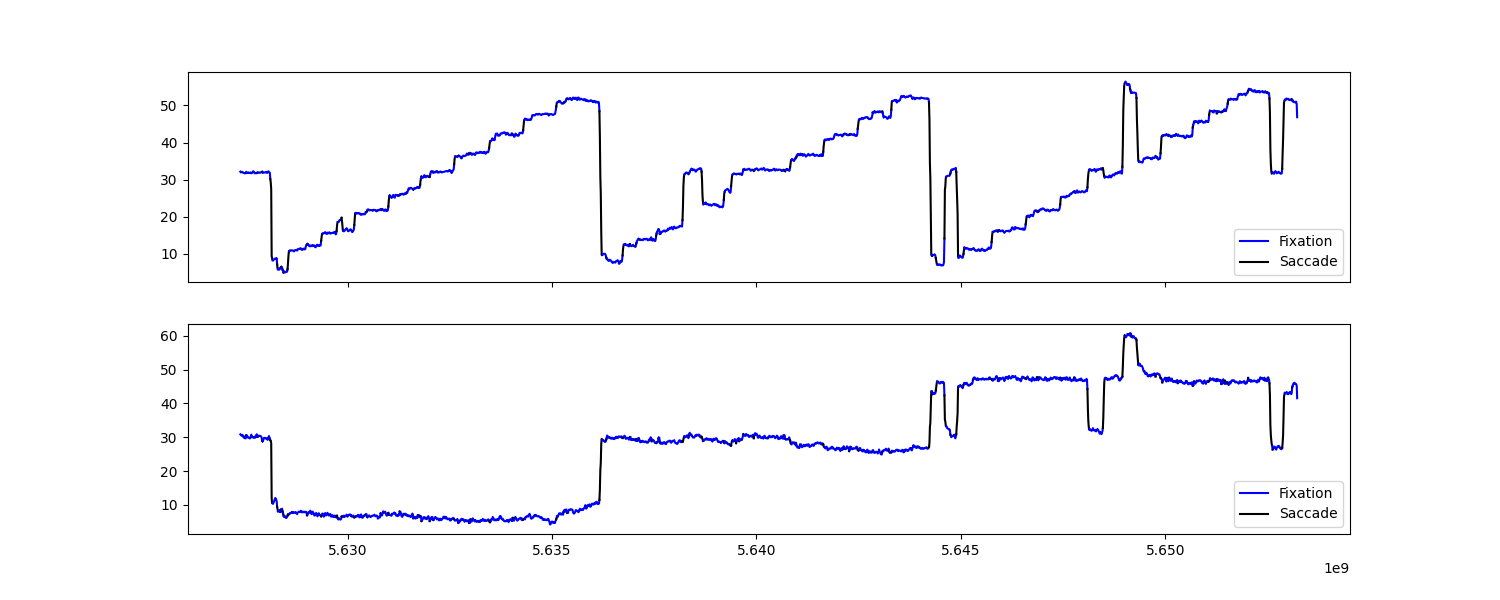
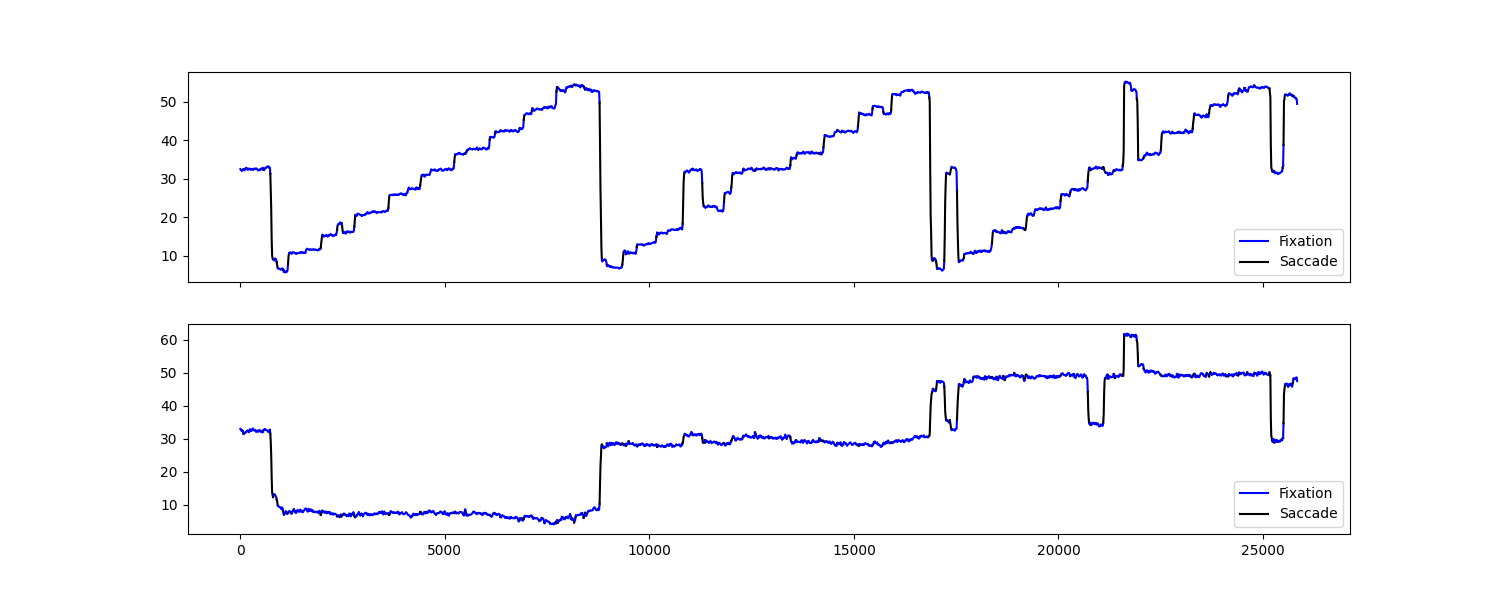
I-DT working but no satisfactorily

diff --git a/Clustering_Framework/EventDetection/event_Detection.py b/Clustering_Framework/EventDetection/event_Detection.py
@@ -29,10 +29,10 @@ def identify_events(record, eye, algorithm, savePlot=None):
         # the best configuration with Qasim and Jadson.
         velocity_threshold = mad_velocity_thresh(x_deg, y_deg, times, th_0=100, return_past_threshs=False)
         # print(f'Velocity threshold: {velocity_threshold}')
-
         seg_id, seg_class = classify_velocity(x_deg, y_deg, times, velocity_threshold, return_discrete=False)
 
     elif algorithm == "I-DT":
+        # seg_id, seg_class = classify_dispersion(x_deg, y_deg, times, 0.5, 50, return_discrete=False)
         seg_id, seg_class = classify_dispersion(x_deg, y_deg, times, 0.5, 50, return_discrete=False)
 
     elif algorithm == 'REMODNAV':
@@ -43,19 +43,19 @@ def identify_events(record, eye, algorithm, savePlot=None):
         seg_id, seg_class = classify_nslr_hmm(x_deg, y_deg, times, optimize_noise=False)
 
 
-    # if savePlot != None:
-    #     # convert continuous ids and descriptions to discrete timepoints and descriptions
-    #     (seg_time, seg_class) = continuous_to_discrete(times, seg_id, seg_class)
-    #
-    #     # plot the classification results
-    #     fig, axes = plt.subplots(2, figsize=(15, 6), sharex=True)
-    #     plot_segmentation(x_deg, times, segments=(seg_time, seg_class), events=None, ax=axes[0])
-    #     plot_segmentation(y_deg, times, segments=(seg_time, seg_class), events=None, ax=axes[1], show_legend=True)
-    #
-    #     print(f'Saving plot of EventDetection for Record id: {record[0]}')
-    #     #plt.show()
-    #     plt.savefig(f'{savePlot}/{algorithm}, Record {record[0]}')
-    #     plt.close(fig)
+    if savePlot != None:
+        # convert continuous ids and descriptions to discrete timepoints and descriptions
+        (seg_time, seg_class) = continuous_to_discrete(times, seg_id, seg_class)
+
+        # plot the classification results
+        fig, axes = plt.subplots(2, figsize=(15, 6), sharex=True)
+        plot_segmentation(x_deg, np.array(times), segments=(seg_time, seg_class), events=None, ax=axes[0])
+        plot_segmentation(y_deg, np.array(times), segments=(seg_time, seg_class), events=None, ax=axes[1], show_legend=True)
+
+        print(f'Saving plot of EventDetection for Record id: {record[0]}, {eye} eye')
+        #plt.show()
+        plt.savefig(f'{savePlot}/{algorithm}, {eye}, Record {record[0]}')
+        plt.close(fig)
 
     return seg_id, seg_class
 
@@ -91,53 +91,13 @@ def getMovementsRanges(segment_id, segment_class):
     for type in type_of_movements:
         movements_ranges[type] = []
 
-    current_id = 0
-    current_type = segment_class[0]
-    first_movement = True
-    for i in range(0, len(segment_id)):
-        if segment_id[i] == current_id and first_movement:
-            movement_first_idx = i
-            first_movement = False
-        elif segment_id[i] != current_id:
-            movements_ranges[current_type].append((movement_first_idx, i-1))
-            movement_first_idx = i
-
-            current_type = segment_class[i]
-            current_id = segment_id[i]
+    movement_start = 0
+    current_class_id = 0
+    for i in range(1, len(segment_id)):
+        if segment_id[i] != segment_id[i-1]:
+            movements_ranges[segment_class[current_class_id]].append((movement_start, i-1))
+            movement_start = i
+            current_class_id += 1
 
     return movements_ranges
 
-    # fixations = []
-    # saccades = []
-    # fixation = [-1, -1]  # (begin, end)
-    # saccade = [-1, -1]
-    # current_id = -1
-    # class_idx = -1
-    #
-    # for i in range(0, len(segment_id)):
-    #     if segment_id[i] != current_id:
-    #         class_idx += 1
-    #         current_id = segment_id[i]
-    #         if segment_class[class_idx] == 'Fixation':
-    #             fixation[0] = i
-    #             if saccade[0] != -1:
-    #                 saccade[1] = i - 1
-    #                 saccades.append(saccade)
-    #                 saccade = [-1, -1]
-    #
-    #         elif segment_class[class_idx] == 'Saccade':
-    #             saccade[0] = i
-    #             if fixation[0] != -1:
-    #                 fixation[1] = i - 1
-    #                 fixations.append(fixation)
-    #                 fixation = [-1, -1]
-    #
-    #     if i == len(segment_id) - 1:
-    #         if fixation[0] != -1:
-    #             fixation[1] = i
-    #             fixations.append(fixation)
-    #         elif saccade[0] != -1:
-    #             saccade[1] = i
-    #             saccades.append(saccade)
-    #
-    # return fixations, saccades

diff --git a/Clustering_Framework/FeatureEngineering/feature_engineering.py b/Clustering_Framework/FeatureEngineering/feature_engineering.py
@@ -96,7 +96,7 @@ def features_task_with_fixations(task, records):
             average_dist_figure_fixations = features_avg_dist_figFixations(record, taskPositions, eye)
 
             # identifying movements
-            segment_id, segment_class = identify_events(record, eye, 'I-VT', savePlot="./EventDetection/Plots EventDetection")
+            segment_id, segment_class = identify_events(record, eye, 'I-DT', savePlot="./EventDetection/Plots EventDetection")
             movements = getMovementsInfo(record, eye, segment_id, segment_class)
 
             # SPL - Scan path length
